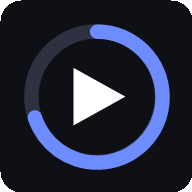
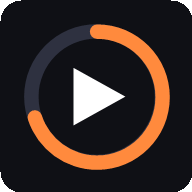
Icône : passer l'accent à l'orange
L'appli est passée du bleu-violet à l'orange le 18/09/2026, l'icône était
restée en arrière. `creer-icones.ps1` dessine maintenant l'arc de progression
en #ff8a3d ; les 3 PNG sont regravés.

Changed region(s): [[0.125, 0.125, 0.9062, 0.9062]]

diff --git a/sw.js b/sw.js
@@ -2,7 +2,7 @@
  * - la coquille (html/css/js) : cache d'abord, réseau si absent
  * - TMDB (données + images) : on sert le cache et on rafraîchit en arrière-plan
  */
-const VERSION = "season-v40";
+const VERSION = "season-v41";
 const SHELL = VERSION + "-shell";
 const RUNTIME = VERSION + "-runtime";
 

diff --git a/CLAUDE.md b/CLAUDE.md
@@ -21,7 +21,7 @@ Le dépôt public ne contient que la coquille de l'appli.
 
 - `index.html` — structure, barre du haut (⏰ À venir + ⚙ Réglages), 7 onglets
   (Séries, Films, Recherche, **Favoris**, **Journal**, **Listes**, Stats)
-- `app.css` — thème sombre, mobile d'abord (max 560 px, safe-area iOS/Android) ; accent **orange** `#ff8a3d` (texte `--on-accent` foncé dessus), `--warn` rouge — depuis le 18/09/2026 (avant : bleu-violet). L'icône de l'appli est restée bleu-violet (`outils/creer-icones.ps1`)
+- `app.css` — thème sombre, mobile d'abord (max 560 px, safe-area iOS/Android) ; accent **orange** `#ff8a3d` (texte `--on-accent` foncé dessus), `--warn` rouge — depuis le 18/09/2026 (avant : bleu-violet). L'icône de l'appli est passée à l'orange elle aussi le 21/09/2026 (`outils/creer-icones.ps1`, `$accent` = `#ff8a3d` ; relancer le script regrave les 3 PNG de `icons/`)
 - `app.js` — toute la logique (navigation par pile de vues, rendu des écrans)
 - `db.js` — couche IndexedDB (stores `shows`, `episodes`)
 - `tmdb.js` — accès à l'API TMDB (recherche, détails, épisodes)
